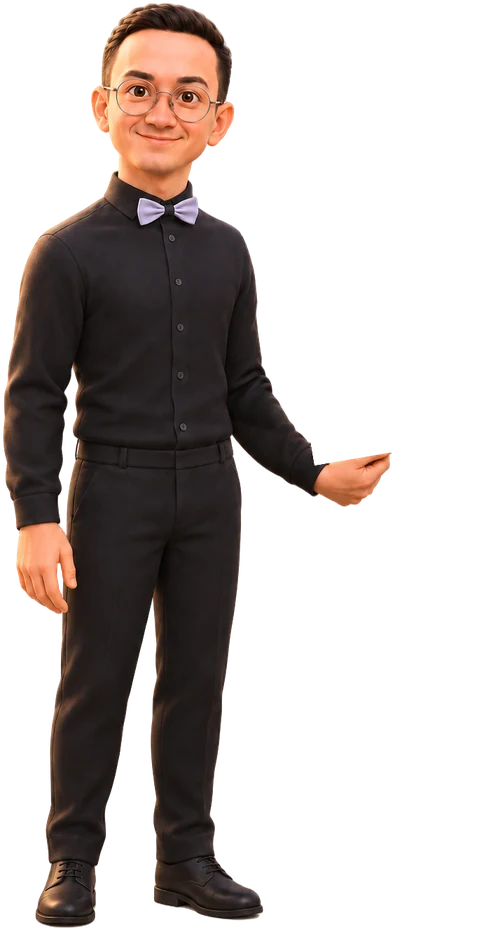
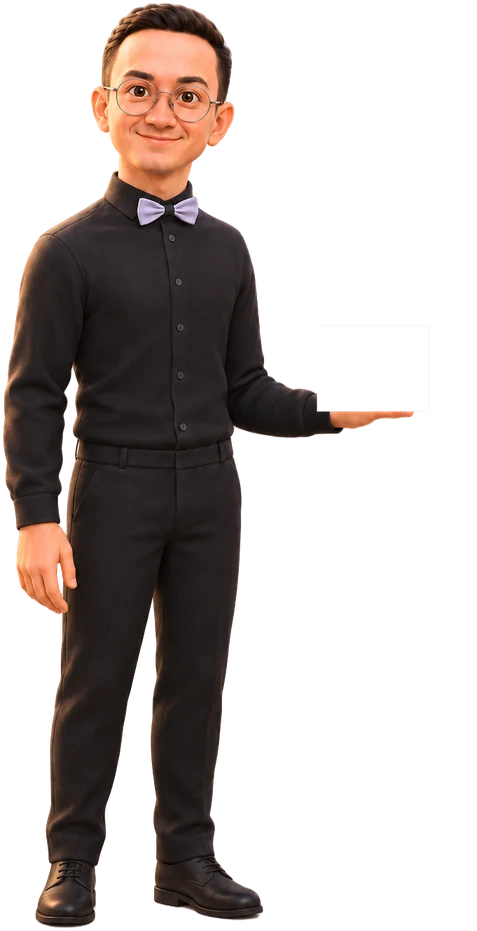
Avelio — сцена основателей: карточка ровно, окно комнаты не закрыто фигурами на телефоне и планшете (фаза 28)
- Амин держит карточку ровно во всех кадрах (hold — рука calm, lift1 убран, lift2 0°)
- телефон и планшет: окно комнаты над головами («стопка», не площе 2:1, паспарту, диван за фигурами)
  или по центру между корпусами («между») — берётся вариант с более крупными фигурами
- телефон набок: окно между фигурами; 1024×768: диван не стоит на именах (низ ≤ 0,84H)
- планшет: высота сцены до 1100px, на высоком планшете сцена выше

Changed region(s): [[0.4696, 0.4049, 0.8805, 0.5607], [0.5283, 0.3115, 0.5577, 0.4049]]

diff --git a/founders/founders.js b/founders/founders.js
@@ -70,10 +70,19 @@
   // на всех ширинах: дыра под неё в кадрах Амина вырезана ровно этим размером.
   const LAYOUTS = {
     wide: { amin: 0.18, roman: 0.82, screen: [0.29, 0.20, 0.42, 0.43], sofa: [0.25, 0.50, 0.50] },
-    tablet: { amin: 0.20, roman: 0.80, screen: [0.15, 0.28, 0.70, 0.44], sofa: [0.10, 0.59, 0.80] },
+    // Фаза 28: на планшете окно комнаты не закрывается фигурами — либо «стопкой» над головами, как на телефоне
+    // (screenWidth, roomGap, окно не площе roomAspect : 1), либо между корпусами по центру (screen: y, ширина не больше,
+    // высота; окно не уже besideMin·W, зазор besideGap·W). Берётся вариант с более крупными фигурами,
+    // «стопка» — если её масштаб не меньше stackPrefer от масштаба «между».
+    tablet: {
+      amin: 0.20, roman: 0.80, screen: [0.29, 0.20, 0.42, 0.43], sofa: [0.10, 0.59, 0.80], edge: 8,
+      screenWidth: 0.82, roomGap: 0.02, roomAspect: 2.0, besideMin: 0.36, besideGap: 0.012, stackPrefer: 0.9
+    },
     phone: {
       amin: 0.20, roman: 0.80, figureHeight: 0.84, feetY: 0.96, edge: 8,
-      screenWidth: 0.82, sofaWidth: 1000,
+      screenWidth: 0.82, sofaWidth: 1000, roomGap: 0.02, roomAspect: 2.0,
+      // Фаза 28: телефон набок (сцена шире высоты) — окно над головами не помещается, тогда окно между корпусами.
+      screen: [0.29, 0.20, 0.42, 0.43], besideMin: 0.36, besideGap: 0.012, stackPrefer: 0.9,
       sofaPalmFraction: 0.50, sofaTopFraction: 0.008,
       sofaCalmFrameY: 980, sofaPushFrameY: 878, sofaPushGap: -3,
       screenShadowBlur: 0.003, screenShadowY: 0.002
@@ -97,12 +106,13 @@
   // Фаза 26: Амин держит карточку по-настоящему — жёсткая смена кадров по q без наплыва рук
   // (content/avelio-concept/team/room-photo/grip/grip-spec.json, timeline): [начало q, кадр].
   const AMIN_FRAMES = [
-    [0, "hold"], [0.12, "lift1"], [0.17, "lift2"], [0.215, "press"],
+    [0, "hold"], [0.17, "lift2"], [0.215, "press"],
     [0.27, "release"], [0.30, "withdraw"], [0.35, "pleased"]
   ];
   // Кадры с карточкой в руке: своя карточка (manifest amin.cards) и передний слой пальцев (amin.fronts).
   // С press карточка неподвижна на экране: в release, withdraw и pleased она гаснет на месте press.
-  const HELD = ["hold", "lift1", "lift2", "press"];
+  // Фаза 28 (12.11): «я его криво держу» — карточка во всех кадрах ровно (0°), hold — рука calm, lift1 убран.
+  const HELD = ["hold", "lift2", "press"];
   // Лицо pleased проявляется овалом лица поверх лица withdraw; руки меняются сразу со сменой кадра.
   const FACE_TO_PLEASED = [0.35, 0.39];
   // Моргание — заплаткой глаз из blink поверх кадра, где карточки нет или она неподвижно в руке.
@@ -111,9 +121,6 @@
   // Всё ниже — в единицах рамки поз 1024×1536 (manifest.frame).
   // Корпус для нажатия: §3, спокойный корпус x 300…724 от волос до подошв.
   const BODY = [300, 108, 724, 1428];
-  // Низ экрана на телефоне (фаза 25) считался от щепоти apply (947; 514) и карточки шириной 112 ед.
-  // с захватом на 0,44 высоты от центра. Числа оставлены постоянными: экран не сдвигается.
-  const PHONE_SCREEN_CARD = { grip: [947, 514], width: 112, hold: 0.44 };
   // Кисть Романа поверх спинки: мягкий эллипс от точки руки к запястью.
   const PALMS = [
     { pose: "calm", dx: 8, dy: -42, rx: 64, ry: 92 },
@@ -551,7 +558,7 @@
     const text = value => typeof value === "string" && value.length > 0;
     const frame = manifest.frame;
     const poses = {
-      amin: ["blink", "hold", "lift1", "lift2", "press", "release", "withdraw", "pleased"],
+      amin: ["blink", "hold", "lift2", "press", "release", "withdraw", "pleased"],
       roman: ["calm", "blink", "push", "switch", "pleased"]
     };
     const amin = manifest.people && manifest.people.amin;
@@ -1141,29 +1148,58 @@
 
   // ---------- Геометрия (§3–§5) ----------
 
+  // Наибольший масштаб, при котором фигуры на осях layout.amin/roman не выходят за края сцены (layout.edge).
+  function widthScale(layout, W) {
+    const frame = manifest.frame;
+    let scale = Infinity;
+    for (const key of KEYS) {
+      const crop = manifest.people[key].crop;
+      const left = frame.axis - Math.min(BODY[0], crop[0]);
+      const right = Math.max(BODY[2], crop[0] + crop[2]) - frame.axis;
+      const cx = layout[key] * W;
+      scale = Math.min(scale, (cx - layout.edge) / left, (W - layout.edge - cx) / right);
+    }
+    return scale;
+  }
+
+  // Экран «стопкой»: по центру, ширина layout.screenWidth; внешний багет варианта A начинается на 5 % высоты сцены.
+  function stackScreen(layout, W, H) {
+    const sw = layout.screenWidth * W;
+    return { sx: (W - sw) / 2, sy: 0.05 * H + 0.065 * sw, sw };
+  }
+
+  // Наибольший масштаб «стопки», при котором окно комнаты над головами не площе layout.roomAspect : 1
+  // (фаза 28: на 375×667 без этого окно было полосой 29px).
+  function stackScale(layout, W, H, feetY) {
+    const frame = manifest.frame;
+    const top = stackScreen(layout, W, H);
+    const headTop = top.sy + 0.02 * top.sw + 0.96 * top.sw / layout.roomAspect + layout.roomGap * H;
+    return (feetY - headTop) / (frame.soles - frame.hairTop);
+  }
+
   function computeGeometry(W, H, layoutName, kx, ky) {
     const layout = LAYOUTS[layoutName];
     const frame = manifest.frame;
     const phone = layoutName === "phone";
-    let s = FIGURE_HEIGHT * H / (frame.soles - frame.hairTop);
-    if (phone) {
-      const heightScale = layout.figureHeight * H / (frame.soles - frame.hairTop);
-      let widthScale = Infinity;
-      for (const key of KEYS) {
-        const crop = manifest.people[key].crop;
-        const left = frame.axis - Math.min(BODY[0], crop[0]);
-        const right = Math.max(BODY[2], crop[0] + crop[2]) - frame.axis;
-        const cx = layout[key] * W;
-        widthScale = Math.min(
-          widthScale,
-          (cx - layout.edge) / left,
-          (W - layout.edge - cx) / right
-        );
-      }
-      s = Math.min(heightScale, widthScale);
-    }
+    const figure = frame.soles - frame.hairTop;
+    const half = (BODY[2] - BODY[0]) / 2;
     const feetY = (phone ? layout.feetY : FEET_Y) * H;
-    const g = { W, H, kx, ky, dpr: Math.min(window.devicePixelRatio || 1, 2), mode: layoutName, s, feetY, people: {} };
+    let s = phone ? Math.min(layout.figureHeight * H / figure, widthScale(layout, W)) : FIGURE_HEIGHT * H / figure;
+    // Фаза 28: телефон и планшет — окно комнаты не закрывается фигурами. stack — окно над головами,
+    // фигуры перед паспарту; иначе окно по центру между корпусами. Берётся вариант с более крупными фигурами.
+    let stack = false;
+    if (layout.roomAspect) {
+      const gap = layout.besideGap * W;
+      const beside = Math.min(s, ((layout.roman - layout.amin - layout.besideMin) * W - 2 * gap) / (2 * half));
+      const tall = Math.min(s, widthScale(layout, W), stackScale(layout, W, H, feetY));
+      stack = tall >= layout.stackPrefer * beside;
+      s = Math.max(0.01, stack ? tall : beside);
+    }
+    // backSofa — диван стоит на полу за фигурами и уезжает в окно за их спинами (телефон фазы 25, «стопка»).
+    const backSofa = phone || stack;
+    const g = {
+      W, H, kx, ky, dpr: Math.min(window.devicePixelRatio || 1, 2), mode: layoutName, stack, backSofa, s, feetY, people: {}
+    };
 
     for (const key of KEYS) {
       const cx = layout[key] * W;
@@ -1183,27 +1219,34 @@
     let sy;
     let sw;
     let sh;
-    if (phone) {
-      sw = layout.screenWidth * W;
+    if (stack) {
+      ({ sx, sy, sw } = stackScreen(layout, W, H));
+      // Фаза 28: низ экрана — под приложенной карточкой (кадр press), она лежит на паспарту.
+      const press = cardPlacement(g, "press");
+      sh = press.cy + 0.5 * manifest.card.frame[1] * s + 0.04 * sw - sy;
+    } else if (layout.roomAspect) {
+      // Фаза 28: окно по центру между корпусами (зазор besideGap·W), не шире layout.screen[2].
+      const free = (layout.roman - layout.amin) * W - 2 * half * s - 2 * layout.besideGap * W;
+      sw = Math.min(layout.screen[2] * W, free / 0.96);
       sx = (W - sw) / 2;
-      // У варианта A внешний багет начинается на 5% высоты сцены.
-      sy = 0.05 * H + 0.065 * sw;
-      const figureHeight = (frame.soles - frame.hairTop) * s;
-      const apply = g.people.amin.map(...PHONE_SCREEN_CARD.grip);
-      const cardHeight = PHONE_SCREEN_CARD.width * s * manifest.card.h / manifest.card.w;
-      const bottom = Math.max(
-        feetY - 0.32 * figureHeight,
-        apply[1] + (0.5 - PHONE_SCREEN_CARD.hold) * cardHeight + 12
-      );
-      sh = bottom - sy;
+      [sy, sh] = [layout.screen[1] * H, layout.screen[3] * H];
     } else {
       [sx, sy, sw, sh] = [layout.screen[0] * W, layout.screen[1] * H, layout.screen[2] * W, layout.screen[3] * H];
     }
     const small = Math.min(sw, sh);
     g.screen = { x: sx, y: sy, w: sw, h: sh, r: 0.04 * small };
     g.inner = { x: sx + 0.02 * sw, y: sy + 0.02 * sh, w: 0.96 * sw, h: 0.96 * sh, r: Math.max(0, 0.02 * small) };
+    if (stack) {
+      // Фаза 28 (12.11): «не весь интерьер виден на телефоне, мы этот интерьер закрываем» — окно комнаты
+      // кончается над головами (roomGap высоты сцены), ниже — паспарту рамки, перед ним стоят фигуры.
+      const headTop = feetY + (frame.hairTop - frame.soles) * s;
+      const top = sy + 0.02 * sw;
+      g.inner = { x: sx + 0.02 * sw, y: top, w: 0.96 * sw, h: headTop - layout.roomGap * H - top, r: Math.max(0, 0.02 * small) };
+    }
 
-    if (phone) {
+    if (backSofa) {
+      // Диван стоит на полу за фигурами, Роман поднимает его рукой (фаза 25; числа — LAYOUTS.phone).
+      const layout = LAYOUTS.phone;
       const outerWidth = layout.sofaWidth * s;
       const outerHeight = outerWidth / 2.5;
       const hand = manifest.people.roman.hand.push;
@@ -1216,6 +1259,10 @@
         w: outerWidth,
         h: outerHeight
       };
+    } else if (layout.roomAspect) {
+      // Фаза 28: планшет «между» — на 1024×768 диван 0,8W стоял на именах; низ не ниже 0,84H, диван по центру.
+      const outerWidth = Math.min(layout.sofa[2] * W, 2.5 * (0.84 - layout.sofa[1]) * H);
+      g.sofaOut = { x: (W - outerWidth) / 2, y: layout.sofa[1] * H, w: outerWidth, h: outerWidth / 2.5 };
     } else {
       const outerWidth = layout.sofa[2] * W;
       g.sofaOut = { x: layout.sofa[0] * W, y: layout.sofa[1] * H, w: outerWidth, h: outerWidth / 2.5 };
@@ -1251,7 +1298,7 @@
   }
 
   function sofaRect(g, m, st) {
-    const a = g.mode === "phone"
+    const a = g.backSofa
       ? {
         ...g.sofaOut,
         y: g.sofaOut.y - g.sofaLift * (st ? span(st.q === null ? 0 : st.q, 0.30, 0.34, E) : 1)
@@ -1333,7 +1380,8 @@
       }
     }
     Object.assign(next, variant.look);
-    if (mode === "phone") {
+    // Тень экрана — доля его высоты: у высокого экрана «стопкой» (телефон, планшет фазы 28) она короткая.
+    if (geo && geo.stack) {
       next.screenShadowBlur = LAYOUTS.phone.screenShadowBlur;
       next.screenShadowY = LAYOUTS.phone.screenShadowY;
     }
@@ -2230,7 +2278,7 @@
 
   // Слой 7: кисть Романа поверх спинки, пока диван перед героями.
   function drawPalm(c, st) {
-    if (geo.mode === "phone" || st.move >= 1) return;
+    if (geo.backSofa || st.move >= 1) return;
     const alpha = frontAlpha(geo, st.move);
     if (alpha <= 0) return;
     const r = sofaRect(geo, st.move);
@@ -2281,10 +2329,10 @@
     drawGroundShadows(c, st);
     drawScreen(c, st);
     setScene(c, geo);
-    if (geo.mode === "phone") drawFrontSofa(c, st);
+    if (geo.backSofa) drawFrontSofa(c, st);
     drawFigure(c, "amin");
     drawFigure(c, "roman");
-    if (geo.mode !== "phone") {
+    if (!geo.backSofa) {
       drawFrontSofa(c, st);
       drawPalm(c, st);
     }
@@ -2323,11 +2371,11 @@
     drawnCardShift = shift;
     clearCanvas({ canvas, ctx });
     ctx.drawImage(work.lifeLower.canvas, 0, 0);
-    if (geo.mode === "phone") ctx.drawImage(work.lifeSofa.canvas, 0, 0);
+    if (geo.backSofa) ctx.drawImage(work.lifeSofa.canvas, 0, 0);
     setScene(ctx, geo);
     drawFigure(ctx, "amin");
     drawFigure(ctx, "roman");
-    if (geo.mode !== "phone") {
+    if (!geo.backSofa) {
       ctx.save();
       ctx.setTransform(1, 0, 0, 1, 0, 0);
       ctx.drawImage(work.lifeSofa.canvas, 0, 0);
@@ -2430,6 +2478,8 @@
       W: g.W,
       H: g.H,
       mode: g.mode,
+      stack: g.stack,
+      backSofa: g.backSofa,
       scale: g.s,
       mFit: g.mFit,
       screen: { x: g.screen.x, y: g.screen.y + offset, w: g.screen.w, h: g.screen.h, visible: st.fade },
@@ -2625,8 +2675,8 @@
     ctx.imageSmoothingEnabled = true;
     ctx.imageSmoothingQuality = "high";
 
-    readLook();
     geo = computeGeometry(W, H, mode, width / W, height / H);
+    readLook();
     layerCache = null;
 
     for (const key of KEYS) {

diff --git a/founders/founders.css b/founders/founders.css
@@ -470,7 +470,7 @@
 /* Планшет: размеры сетки и ролика сохранены. */
 @media (min-width: 700px) and (max-width: 1099px) {
   .founders.is-ready #hero {
-    --founder-content-h: min(calc(100svh - 84px), 840px);
+    --founder-content-h: min(calc(100svh - 84px), 1100px);
 
     grid-template-columns: minmax(0, 42%) minmax(0, 1fr);
     column-gap: 20px;
@@ -522,7 +522,7 @@
 
 @media (min-width: 1000px) and (max-width: 1099px) {
   .founders.is-ready #hero {
-    --founder-content-h: min(calc(100svh - 96px), 840px);
+    --founder-content-h: min(calc(100svh - 96px), 1100px);
   }
 }
 
